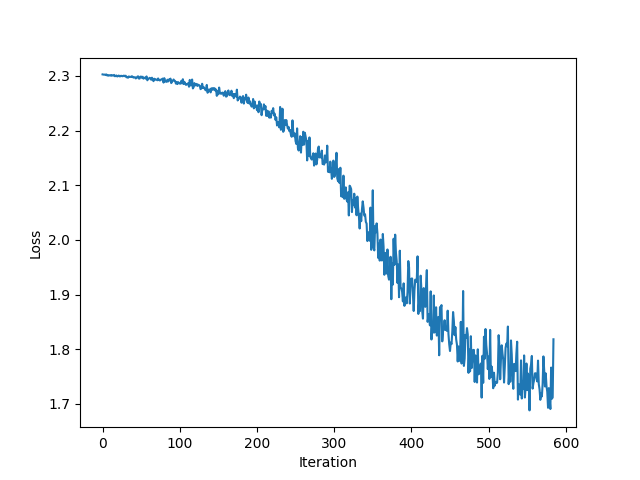
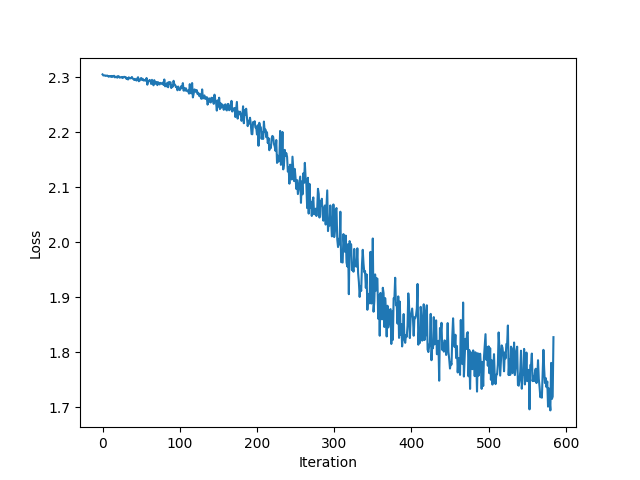
clean up logic more

diff --git a/grad_acc.py b/grad_acc.py
@@ -44,44 +44,42 @@ for grads_per_update in range(1, 20, 1):
 
     if (rank == 0):
         print("Running for ", grads_per_update, " grads per update")
-    for epoch in range(num_epochs):
-        
-        grads = [] 
-        for param in model.parameters():
-            grads.append(0)
+    grads_per_update = 5
 
+    # Initial set-up: Store model parameters as a list for ease of access
+    params = list(model.parameters())
+    n_params = len(params)
+    device = next(model.parameters()).device
+
+    # Initialize gradients holder
+    avg_grads = [torch.zeros_like(param, device=device) for param in params]
+
+    for epoch in range(num_epochs):
         for i in range(len(images)//batch_size):
             mini = slice(i*batch_size, (i+1)*batch_size)
 
             loss = fwd(model, optim, loss_fn, images[mini], labels[mini])
             loss.backward()
 
-            # add the gradients to grads list to create a sum 
-            j = 0
-            for param in model.parameters():
-                grads[j] = grads[j] + param.grad.data.cpu().numpy()
-                j += 1
+            # aggregate gradients
+            for j, param in enumerate(params):
+                avg_grads[j] += param.grad.data / grads_per_update
 
-            if (i % grads_per_update == 0):
-                # calculate the gradients and allreduce 
-                j = 0
-                for param in model.parameters():
-                    grad = grads[j]
-                    comm.Allreduce(MPI.IN_PLACE, grad, op=MPI.SUM)  # in-place sum of gradients across all GPUs
-                    avg_grad = torch.from_numpy(grad / grads_per_update / size ).to(device)  # convert back to tensor and average
-                    # update with the average gradient
-                    param.grad.data = avg_grad
-                    j += 1
+            if (i % grads_per_update == 0) or (i == len(images)//batch_size - 1):  # also update on last iteration
+                # allreduce and average gradients
+                for j in range(n_params):
+                    avg_grads[j] = avg_grads[j].cpu().numpy()
+                    comm.Allreduce(MPI.IN_PLACE, avg_grads[j], op=MPI.SUM)
+                    avg_grads[j] /= size
 
-                grads = []
-                for param in model.parameters():
-                    grads.append(0)
+                    # update parameters with averaged gradients
+                    params[j].grad.data = torch.tensor(avg_grads[j]).to(device)
 
-                
+                # reset the averaged gradients to zero for the next accumulation
+                avg_grads = [torch.zeros_like(param, device=device) for param in params]
+
                 # update the model parameters
                 optim.step()
-            
-            # print("Rank {0} epoch {1} batch {2} loss {3}".format(rank, epoch, i, loss.item()))
 
             training_curve.append(loss.item())
     
